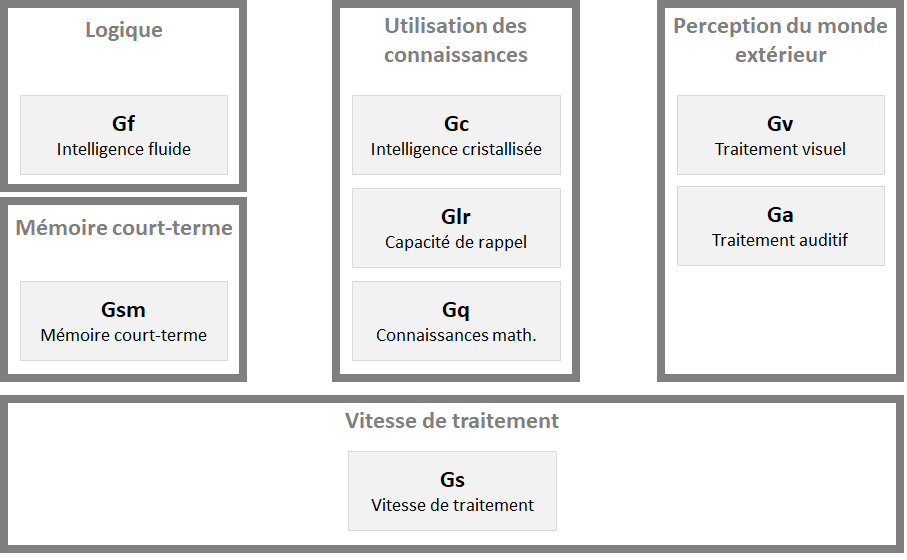
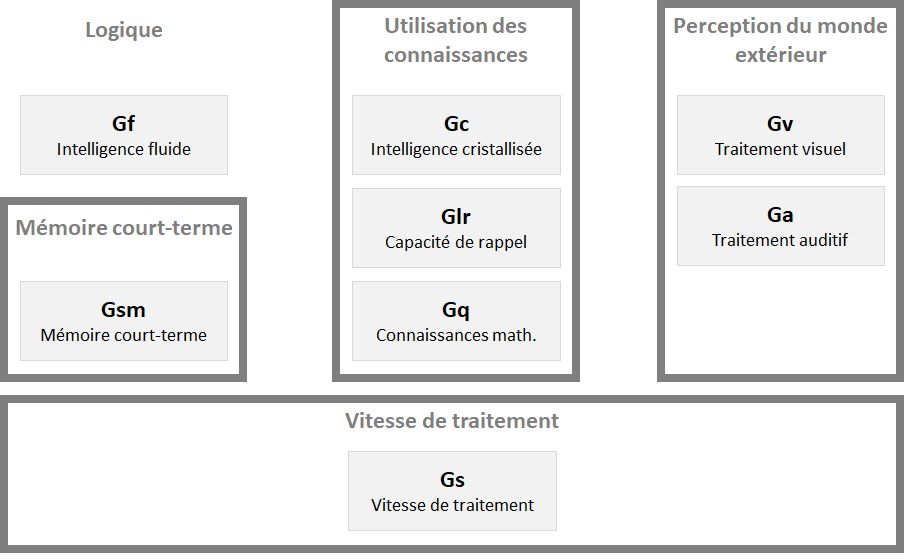
feat: fond blanc transparent sur 8 schémas du blog (JPG convertis en PNG)
Flood-fill pour les images à blanc interne à préserver (Synthese, FaceBélier,
Restricted_3-Body), détourage global pour les graphes à cadre fermé
(Champ-gravitationnel, CISSM). Liens des notes mis à jour vers les .png ;
les .jpg d'origine sont conservés.

Changed region(s): [[0.0, 0.0, 0.2778, 0.3643]]

diff --git a/_posts/2021-04-14-opinion-iranienne.md b/_posts/2021-04-14-opinion-iranienne.md
@@ -34,7 +34,7 @@ Pour qui regarde l’Iran de très loin, il est facile d’en avoir une vision c
 ## 1. La première source perçue des problèmes économiques est …. la mauvaise gestion et la corruption
 
 Là où certains aurait pu s’attendre à ce que les Iraniens citent en premier les sanctions américains, ils sont une majorité claire à citer en premier la mauvaise gestion et la corruption : 58% contre seulement 35%. 
-![](/images/blog/CISSM-1.jpg)
+![](/images/blog/CISSM-1.png)
 Cette tendance n’est pas nouvelle, comme on peut le voir dans le graphique ci-dessus : depuis que le sondage du CISSM existe, la mauvaise gestion et la corruption est citée en premier, avec une fourchette entre 58 et 64%. Les valeurs sont d’ailleurs stables depuis fin 2018.
 
 ## 2. Les Iraniens sont mieux « informés » sur l’élection américaine que les américains eux-même
@@ -47,7 +47,7 @@ Avec le retrait des Etats-Unis de Donald Trump du JCPOA (le nom du traité enté
 
 L’explication est simple : après l’euphorie quant aux perspectives d’une franche ouverture sur le monde, l’absence de progrès économiques concrets sur leur vie quotidienne a incité les Iraniens à la prudence. Lors des sondages d’octobre 2019 et 2020, une majorité des Iraniens interrogés désapprouvait même le traité.
 
-![](/images/blog/CISSM-2.jpg)
+![](/images/blog/CISSM-2.png)
 
 De la même manière, lorsqu’on pose la question de la confiance, une large, très large part (71%) des répondants pensent qu’il est inutile que l’Iran fasse des concessions dans le cadre des accords internationaux, puisque les puissances signataires ne tiennent pas leur engagement.   
 

diff --git a/_posts/2015-08-17-Modèle-la-masse-critique.md b/_posts/2015-08-17-Modèle-la-masse-critique.md
@@ -69,17 +69,17 @@ $$ A = e^{(p \alpha - \beta) \mathrm{d}t}$$
 Dis avec des mots : la base utilisateur de *FaceBélier* dépend du taux de satisfaction (\\(\alpha\\)), de la probabilité de ne pas être tout seul sur l'outil (\\(p\\)) et du taux de départ. Si l'effet des deux premiers dépasse celui du dernier (c'est-à-dire si \\(p \alpha - \beta > 0\\)), alors la base va croître, et même de plus en plus vite. On aura alors une courbe utilisateur du type : 
 
 {: style="font-size: 60%; text-align: center"} 
-<img src="/images/blog/FaceBélier-croiss.jpg" width="350px" />
+<img src="/images/blog/FaceBélier-croiss.png" width="350px" />
 
 Si les deux se compensent (\\(p \alpha - \beta = 0\\)), on obtient une base stable :
 
 {: style="font-size: 60%; text-align: center"} 
-<img src="/images/blog/FaceBélier-plat.jpg" width="350px" />
+<img src="/images/blog/FaceBélier-plat.png" width="350px" />
 
 Si au contraire il y a plus de départ que d'arrivée (\\(p \alpha - \beta < 0\\)), la base décroît :
 
 {: style="font-size: 60%; text-align: center"} 
-<img src="/images/blog/FaceBélier-decroiss.jpg" width="350px" />
+<img src="/images/blog/FaceBélier-decroiss.png" width="350px" />
 
 **La masse critique**
 

diff --git a/_posts/2015-09-07-The-Three-Body-Problem.md b/_posts/2015-09-07-The-Three-Body-Problem.md
@@ -4,7 +4,7 @@ title: "Why has the three-body problem not been solved?"
 date: 2015-09-07
 category: [physique]
 tags: [physique, anglais, physics]
-image: Restricted_3-Body.jpg
+image: Restricted_3-Body.png
 ---
 *Un petit post en anglais, issu d'une de mes contributions sur le site [Quora](http://www.quora.com/Julien-Bordet/answers)*
 
